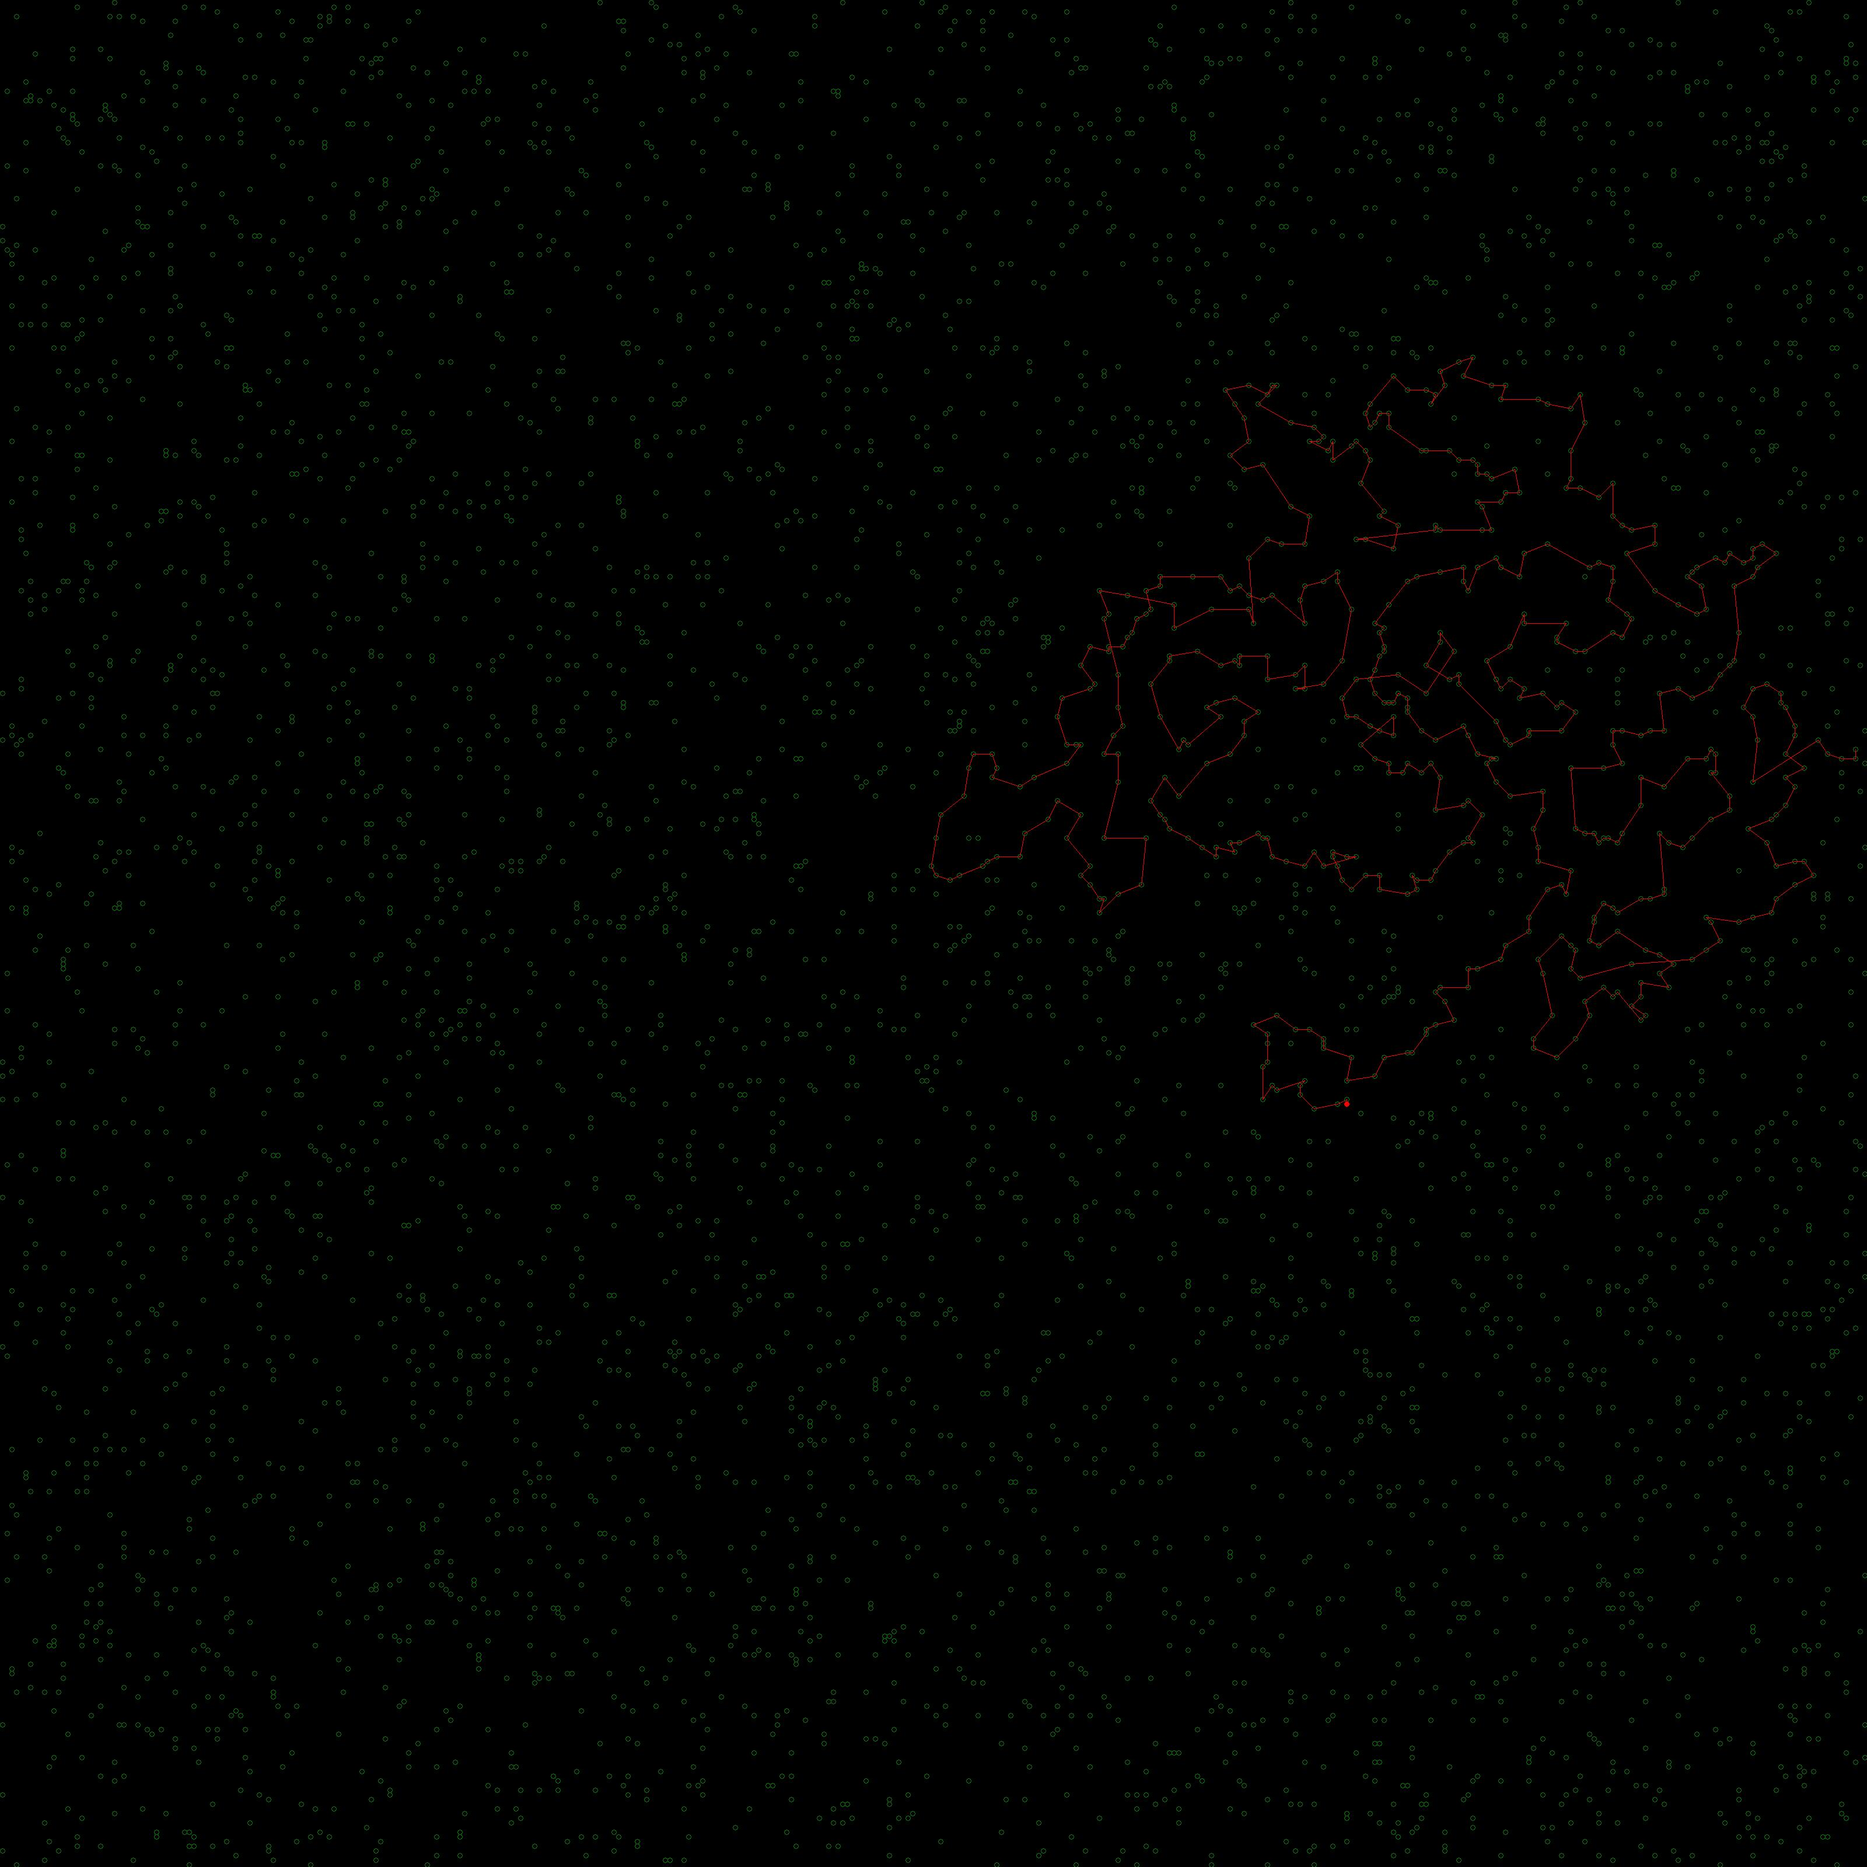
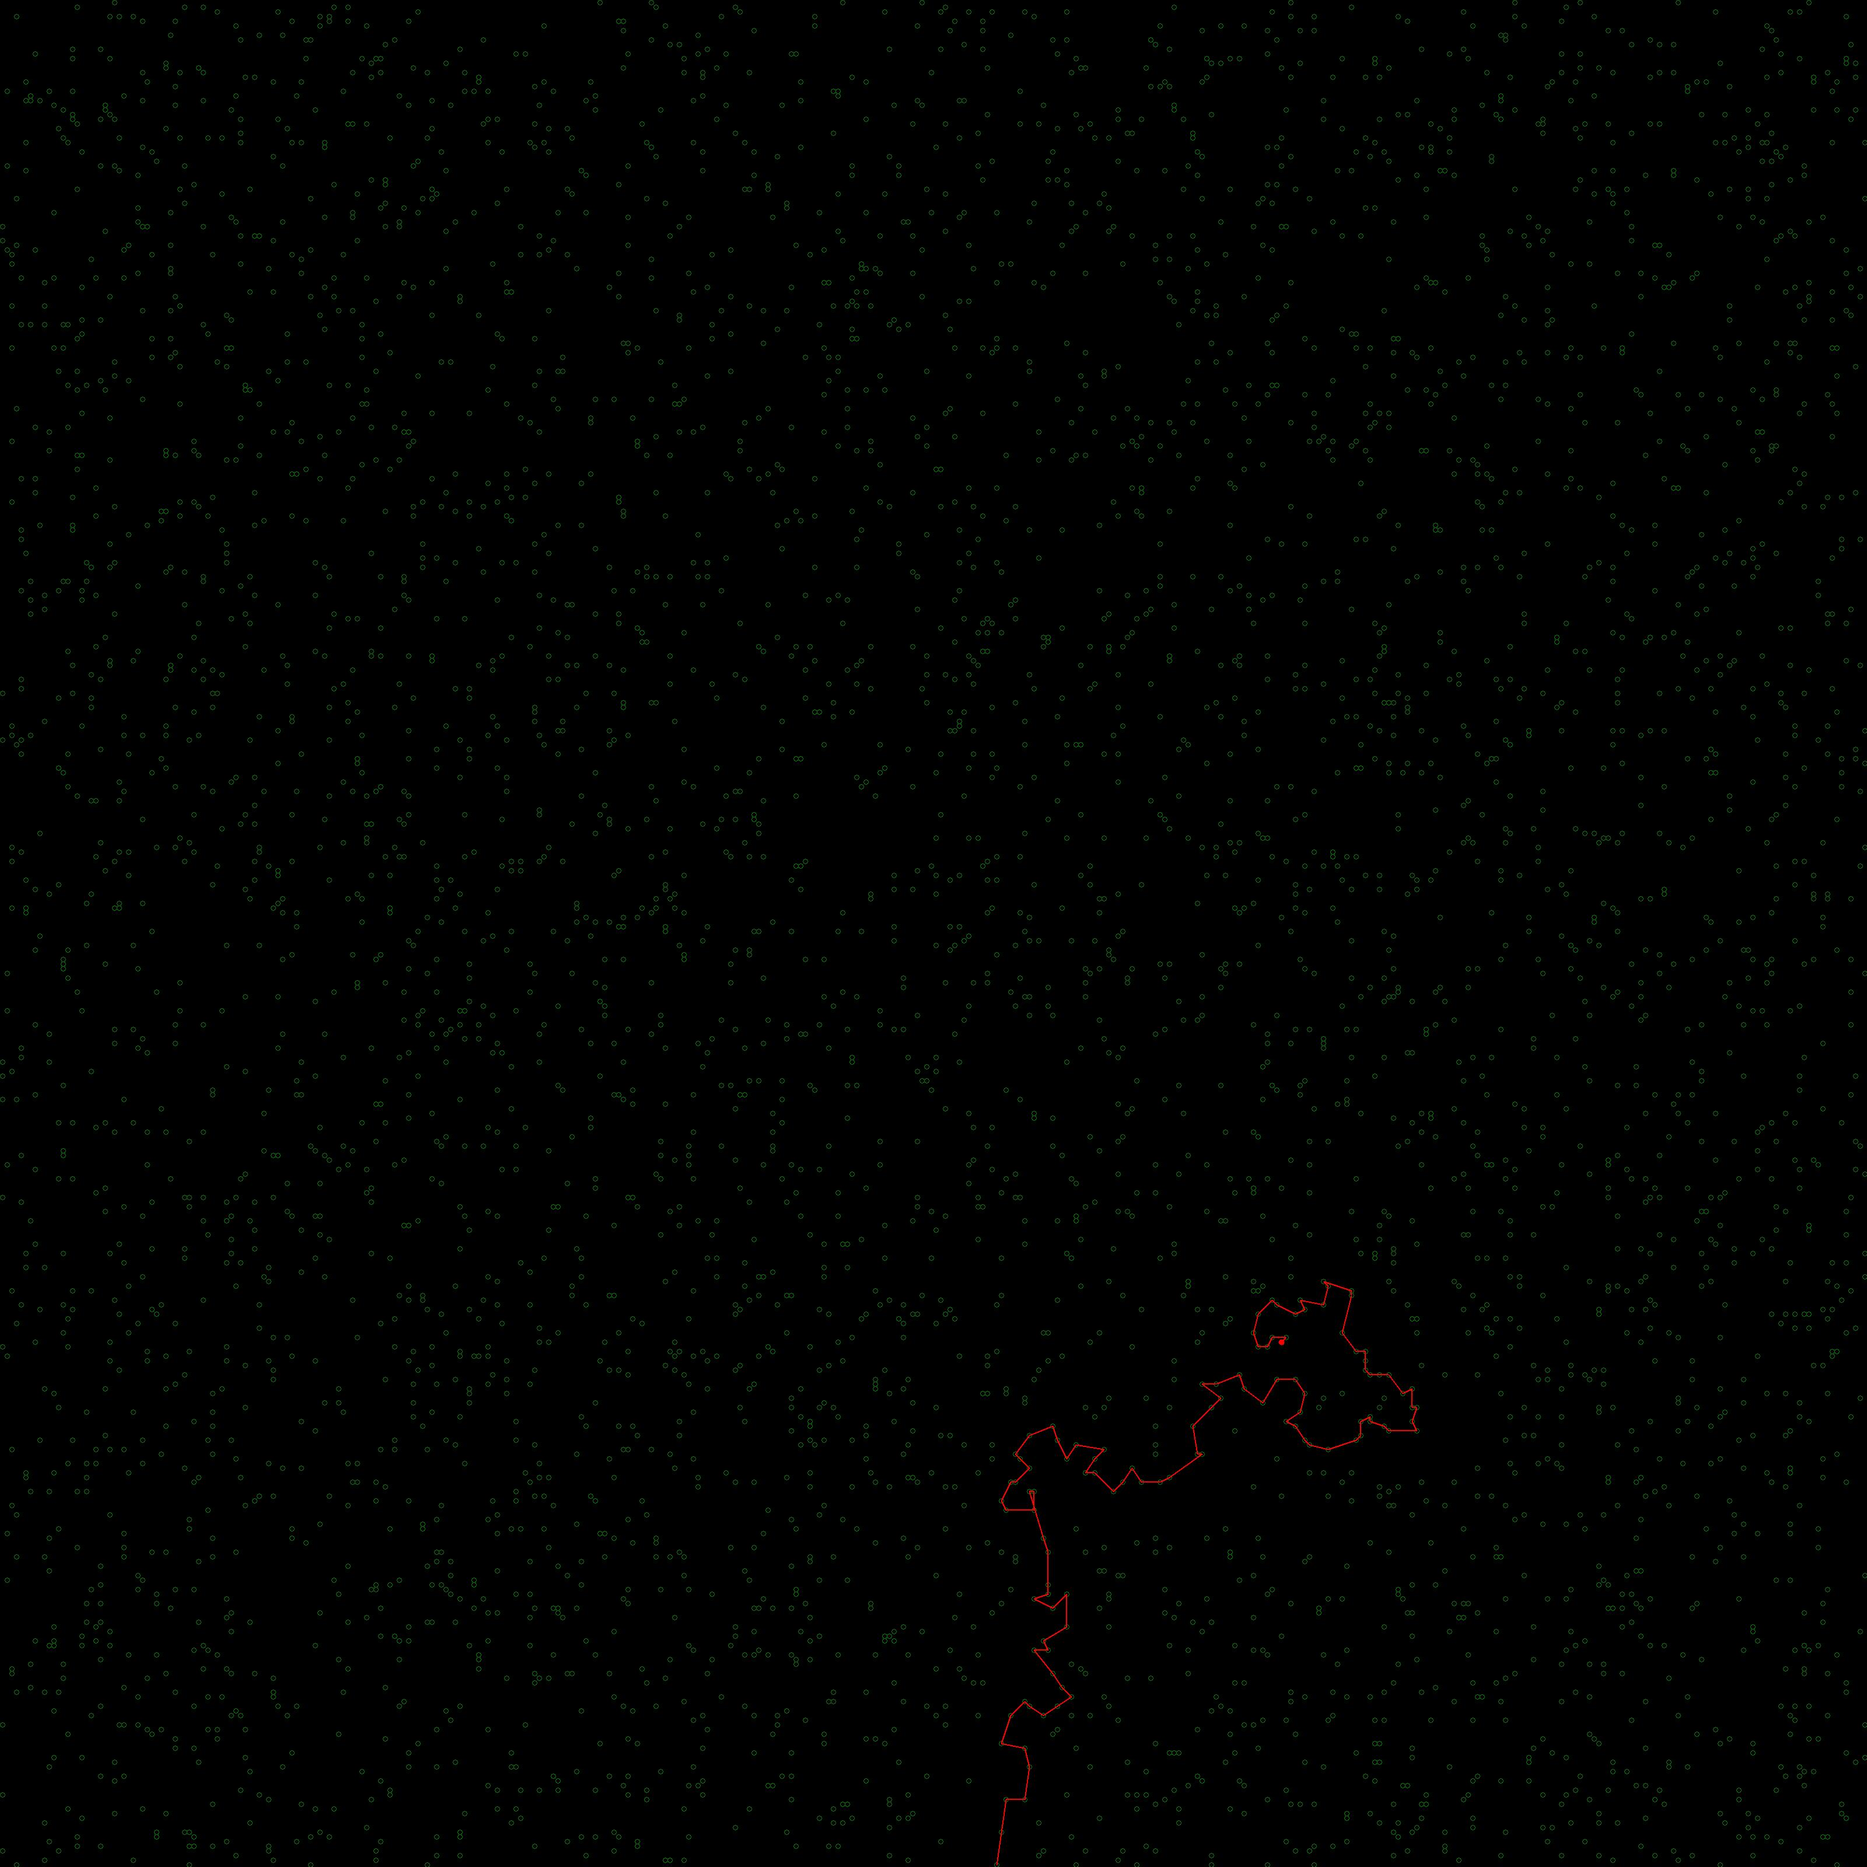
Startcommit labo twee 14/12/2023

Changed region(s): [[0.5312, 0.7812, 0.5625, 0.8125]]

diff --git a/Managers/EscapeRouteManager.cs b/Managers/EscapeRouteManager.cs
@@ -1,9 +1,11 @@
 using System;
 using System.Collections.Generic;
+using System.Diagnostics;
 using System.Drawing;
 using System.Drawing.Imaging;
 using System.IO;
 using System.Linq;
+using System.Threading.Tasks;
 
 namespace EscapeFromTheWoods
 {
@@ -15,16 +17,18 @@ namespace EscapeFromTheWoods
         private string _path;
         private Map _map;
         private List<Tree> _trees;
+        private Dictionary<int, Tree> _treeDictionary;
 
         public EscapeRouteManager(string path, DBwriter dbWriter, Map map, List<Tree> trees) 
         {
             _path = path;
             _dbWriter = dbWriter;
             _map = map;
-            _trees = trees; 
+            _trees = trees;
+            _treeDictionary = trees.ToDictionary(t => t.treeID); // Convert the list to a dictionary
         }
 
-        public void WriteEscapeRoutesToBitmap(int woodID, List<List<Tree>> routes)
+        /*public void WriteEscapeRoutesToBitmap(int woodID, List<List<Tree>> routes) // oude methode zonder async
         {
             Console.ForegroundColor = ConsoleColor.Yellow;
             Console.WriteLine($"{woodID}:write bitmap routes {woodID} start");
@@ -36,7 +40,7 @@ namespace EscapeFromTheWoods
                     int delta = DrawingFactor / 2;
                     using (Pen p = new Pen(Color.Green, 1))
                     {
-                        foreach (Tree t in _trees)
+                        foreach (Tree t in _treeDictionary.Values)
                         {
                             g.DrawEllipse(p, t.x * DrawingFactor, t.y * DrawingFactor, DrawingFactor, DrawingFactor);
                         }
@@ -86,26 +90,88 @@ namespace EscapeFromTheWoods
 
             Console.ForegroundColor = ConsoleColor.Yellow;
             Console.WriteLine($"{woodID}:write bitmap routes {woodID} end");
+        }*/
+        
+        public async Task WriteEscapeRoutesToBitmap(int woodID, List<List<Tree>> routes) // async method, is sneller 
+        {
+            Console.ForegroundColor = ConsoleColor.Yellow;
+            Console.WriteLine($"{woodID}:write bitmap routes {woodID} start");
+
+            Color[] cvalues = { Color.Red, Color.Yellow, Color.Blue, Color.Cyan, Color.GreenYellow };
+
+            using (Bitmap bm = new Bitmap((_map.xmax - _map.xmin) * DrawingFactor, (_map.ymax - _map.ymin) * DrawingFactor))
+            {
+                using (Graphics g = Graphics.FromImage(bm))
+                {
+                    int delta = DrawingFactor / 2;
+                    using (Pen p = new Pen(Color.Green, 1))
+                    {
+                        foreach (Tree t in _treeDictionary.Values)
+                        {
+                            g.DrawEllipse(p, t.x * DrawingFactor, t.y * DrawingFactor, DrawingFactor, DrawingFactor);
+                        }
+                    }
+
+                    int colorN = 0;
+                    foreach (List<Tree> route in routes)
+                    {
+                        int p1x = route[0].x * DrawingFactor + delta;
+                        int p1y = route[0].y * DrawingFactor + delta;
+                        Color color = cvalues[colorN % cvalues.Length];
+                        using (Pen pen = new Pen(color, 2))
+                        {
+                            g.DrawEllipse(pen, p1x - delta, p1y - delta, DrawingFactor, DrawingFactor);
+                            using (SolidBrush brush = new SolidBrush(color))
+                            {
+                                g.FillEllipse(brush, p1x - delta, p1y - delta, DrawingFactor, DrawingFactor);
+                            }
+                            for (int i = 1; i < route.Count; i++)
+                            {
+                                g.DrawLine(pen, p1x, p1y, route[i].x * DrawingFactor + delta, route[i].y * DrawingFactor + delta);
+                                p1x = route[i].x * DrawingFactor + delta;
+                                p1y = route[i].y * DrawingFactor + delta;
+                            }
+                        }
+                        colorN++;
+                    }
+                }
+
+                string directoryPath = Path.GetDirectoryName(_path);
+                if (!Directory.Exists(directoryPath))
+                {
+                    Directory.CreateDirectory(directoryPath);
+                }
+
+                string filePath = Path.Combine(_path, woodID.ToString() + "_escapeRoutes.jpg");
+                await Task.Run(() => bm.Save(filePath, ImageFormat.Jpeg));
+            }
+
+            Console.ForegroundColor = ConsoleColor.Yellow;
+            Console.WriteLine($"{woodID}:write bitmap routes {woodID} end");
         }
 
-        public List<Tree> FindEscapeRoute(int woodID, Monkey monkey)
-        {
+        /*public List<Tree> FindEscapeRoute(int woodID, Monkey monkey) // O(n^2), voor elke verdubbeling van het aantal bomen wordt de tijd 4 keer zo lang. 
+        {   
+            Stopwatch stopwatch = new Stopwatch();
+            stopwatch.Start();
+            //originele methode
             Console.ForegroundColor = ConsoleColor.White;
             Console.WriteLine($"{woodID}:start {woodID},{monkey.name}");
-            Dictionary<int, bool> visited = new Dictionary<int, bool>();
+            Dictionary<int, bool> visited = new Dictionary<int, bool>(); //houdt bij welke bomen al bezocht zijn door de aap, door bool 
             _trees.ForEach(x => visited.Add(x.treeID, false));
             List<Tree> route = new List<Tree>() { monkey.tree };
-            do
+            
+            do // eerste loop is O(N), tweede nested loop is O(N^2), dus O(N^2)
             {
-                visited[monkey.tree.treeID] = true;
-                SortedList<double, List<Tree>> distanceToMonkey = new SortedList<double, List<Tree>>();
+                visited[monkey.tree.treeID] = true; // 0(1) operatie 
+                SortedList<double, List<Tree>> distanceToMonkey = new SortedList<double, List<Tree>>(); // ook O(1) operatie
 
                 // Find the nearest tree that has not been visited
-                foreach (Tree t in _trees)
+                foreach (Tree t in _trees) // voor elke boom in de lijst van bomen (N trees), dus O(N) operatie, de nested loop. 
                 {
-                    if ((!visited[t.treeID]) && (!t.hasMonkey))
+                    if ((!visited[t.treeID]) && (!t.hasMonkey)) // checken of de boom al bezocht is en of er al een aap in zit, ook O(1) operatie
                     {
-                        double d = Math.Sqrt(Math.Pow(t.x - monkey.tree.x, 2) + Math.Pow(t.y - monkey.tree.y, 2));
+                        double d = Math.Sqrt(Math.Pow(t.x - monkey.tree.x, 2) + Math.Pow(t.y - monkey.tree.y, 2)); // onafhankelijke operatie van N tussen twee punten, dus 0(1) operatie, maar wel in nested loop
                         if (distanceToMonkey.ContainsKey(d)) distanceToMonkey[d].Add(t);
                         else distanceToMonkey.Add(d, new List<Tree>() { t });
                     }
@@ -126,14 +192,75 @@ namespace EscapeFromTheWoods
                     WriteRouteToDB(woodID, monkey, route);
                     Console.ForegroundColor = ConsoleColor.White;
                     Console.WriteLine($"{woodID}:end {woodID},{monkey.name}");
+                    stopwatch.Stop();
+                    Console.WriteLine($"Time taken: {stopwatch.ElapsedMilliseconds} ms");
                     return route;
                 }
 
                 route.Add(distanceToMonkey.First().Value.First());
                 monkey.tree = distanceToMonkey.First().Value.First();
             }
-            while (true);
+            while (true); 
+
+        }*/
+        
+        public List<Tree> FindEscapeRoute(int woodID, Monkey monkey) // met dictionaries ipv lists, O(1) want dictionaries zijn hashtables en hebben een constante lookup tijd
+        {
+            Stopwatch stopwatch = new Stopwatch();
+            stopwatch.Start();
+            Console.ForegroundColor = ConsoleColor.White;
+            Console.WriteLine($"{woodID}:start {woodID},{monkey.name}");
+            
+            Dictionary<int, bool> visited = new Dictionary<int, bool>(); // houdt bij welke bomen al bezocht zijn door de aap, door bool
+            foreach (var tree in _treeDictionary.Values)
+            {
+                visited[tree.treeID] = false; // initieel alle bomen op false, want duh 
+            }
+            List<Tree> route = new List<Tree>() { monkey.tree };
+
+            while (true)
+            {
+                visited[monkey.tree.treeID] = true; // aap is in de boom, dus true
+                Tree nearestTree = null;
+                double nearestDistance = double.MaxValue;
+
+                foreach (var kvp in _treeDictionary)
+                {
+                    Tree t = kvp.Value;
+                    if (!visited[t.treeID] && !t.hasMonkey) // als de boom nog niet bezocht is en er geen aap in zit
+                    {
+                        double d = Math.Sqrt(Math.Pow(t.x - monkey.tree.x, 2) + Math.Pow(t.y - monkey.tree.y, 2));
+                        if (d < nearestDistance)
+                        {
+                            nearestDistance = d;
+                            nearestTree = t;
+                        }
+                    }
+                }
+
+                double distanceToBorder = new List<double>
+                {
+                    _map.ymax - monkey.tree.y,
+                    _map.xmax - monkey.tree.x,
+                    monkey.tree.y - _map.ymin,
+                    monkey.tree.x - _map.xmin
+                }.Min();
+
+                if (nearestTree == null || distanceToBorder < nearestDistance)
+                {
+                    WriteRouteToDB(woodID, monkey, route);
+                    Console.ForegroundColor = ConsoleColor.White;
+                    Console.WriteLine($"{woodID}:end {woodID},{monkey.name}");
+                    stopwatch.Stop();
+                    Console.WriteLine($"Time taken: {stopwatch.ElapsedMilliseconds} ms");
+                    return route;
+                }
+
+                route.Add(nearestTree);
+                monkey.tree = nearestTree;
+            }
         }
+
 
         public void WriteRouteToDB(int woodID, Monkey monkey, List<Tree> route)
         {

diff --git a/Program.cs b/Program.cs
@@ -1,13 +1,14 @@
 using System;
 using System.Diagnostics;
 using System.IO;
+using System.Threading.Tasks;
 using EscapeFromTheWoods;
 
 namespace EscapeFromTheWoods
 {
     class Program
     {
-        static void Main(string[] args)
+        static async Task Main(string[] args)
         {
             Stopwatch stopwatch = new Stopwatch();
             stopwatch.Start();
@@ -25,9 +26,9 @@ namespace EscapeFromTheWoods
             Map m3 = new Map(0, 400, 0, 400);
 
             // Create the woods using the WoodBuilder
-            Wood w1 = WoodBuilder.GetWood(500, m1, path, db);
-            Wood w2 = WoodBuilder.GetWood(2500, m2, path, db);
-            Wood w3 = WoodBuilder.GetWood(2000, m3, path, db);
+            Wood w1 = WoodBuilder.GetWood(10000, m1, path, db);
+            Wood w2 = WoodBuilder.GetWood(10000, m2, path, db);
+            Wood w3 = WoodBuilder.GetWood(5000, m3, path, db);
 
             // Place monkeys in the woods
             w1.PlaceMonkey("Alice", IDgenerator.GetMonkeyID());
@@ -39,10 +40,13 @@ namespace EscapeFromTheWoods
             w2.WriteWoodToDB();
             w3.WriteWoodToDB();
 
-            // Perform the escape simulation for each wood
-            w1.Escape();
-            w2.Escape();
-            w3.Escape();
+            /* Perform the escape simulation for each wood
+            await w1.Escape();
+            await w2.Escape();
+            await w3.Escape();*/
+            
+            await Task.WhenAll(w1.Escape(), w2.Escape(), w3.Escape()); // await alle tasks tegelijk, ipv 1 voor 1, scheelt tijd (zie stopwatch), runt parallel ipv sequentieel
+
 
             stopwatch.Stop();
             db.WriteLogRecord(new DBLogRecord

diff --git a/Objects/Wood.cs b/Objects/Wood.cs
@@ -1,5 +1,6 @@
 using System;
 using System.Collections.Generic;
+using System.Threading.Tasks;
 
 namespace EscapeFromTheWoods
 {
@@ -29,7 +30,7 @@ namespace EscapeFromTheWoods
             _monkeyManager.PlaceMonkey(WoodID, monkeyName, monkeyID, _trees, _r);
         }
 
-        public void Escape()
+        /*public void Escape() // originele zonder async
         {
             List<List<Tree>> routes = new List<List<Tree>>();
             foreach (Monkey m in _monkeyManager.GetMonkeys())
@@ -38,6 +39,21 @@ namespace EscapeFromTheWoods
                 routes.Add(route);
             }
             _escapeRouteManager.WriteEscapeRoutesToBitmap(WoodID, routes);
+            _dbWriter.WriteLogRecord(new DBLogRecord { woodID = WoodID, message = "Escape ended" });
+        }*/
+        
+        public async Task Escape() // async, sneller 
+        {
+            List<List<Tree>> routes = new List<List<Tree>>();
+            foreach (Monkey m in _monkeyManager.GetMonkeys())
+            {
+                var route = _escapeRouteManager.FindEscapeRoute(WoodID, m);
+                routes.Add(route);
+            }
+        
+            // Now awaiting the asynchronous call to write the bitmap
+            await _escapeRouteManager.WriteEscapeRoutesToBitmap(WoodID, routes);
+
             _dbWriter.WriteLogRecord(new DBLogRecord { woodID = WoodID, message = "Escape ended" });
         }
 
